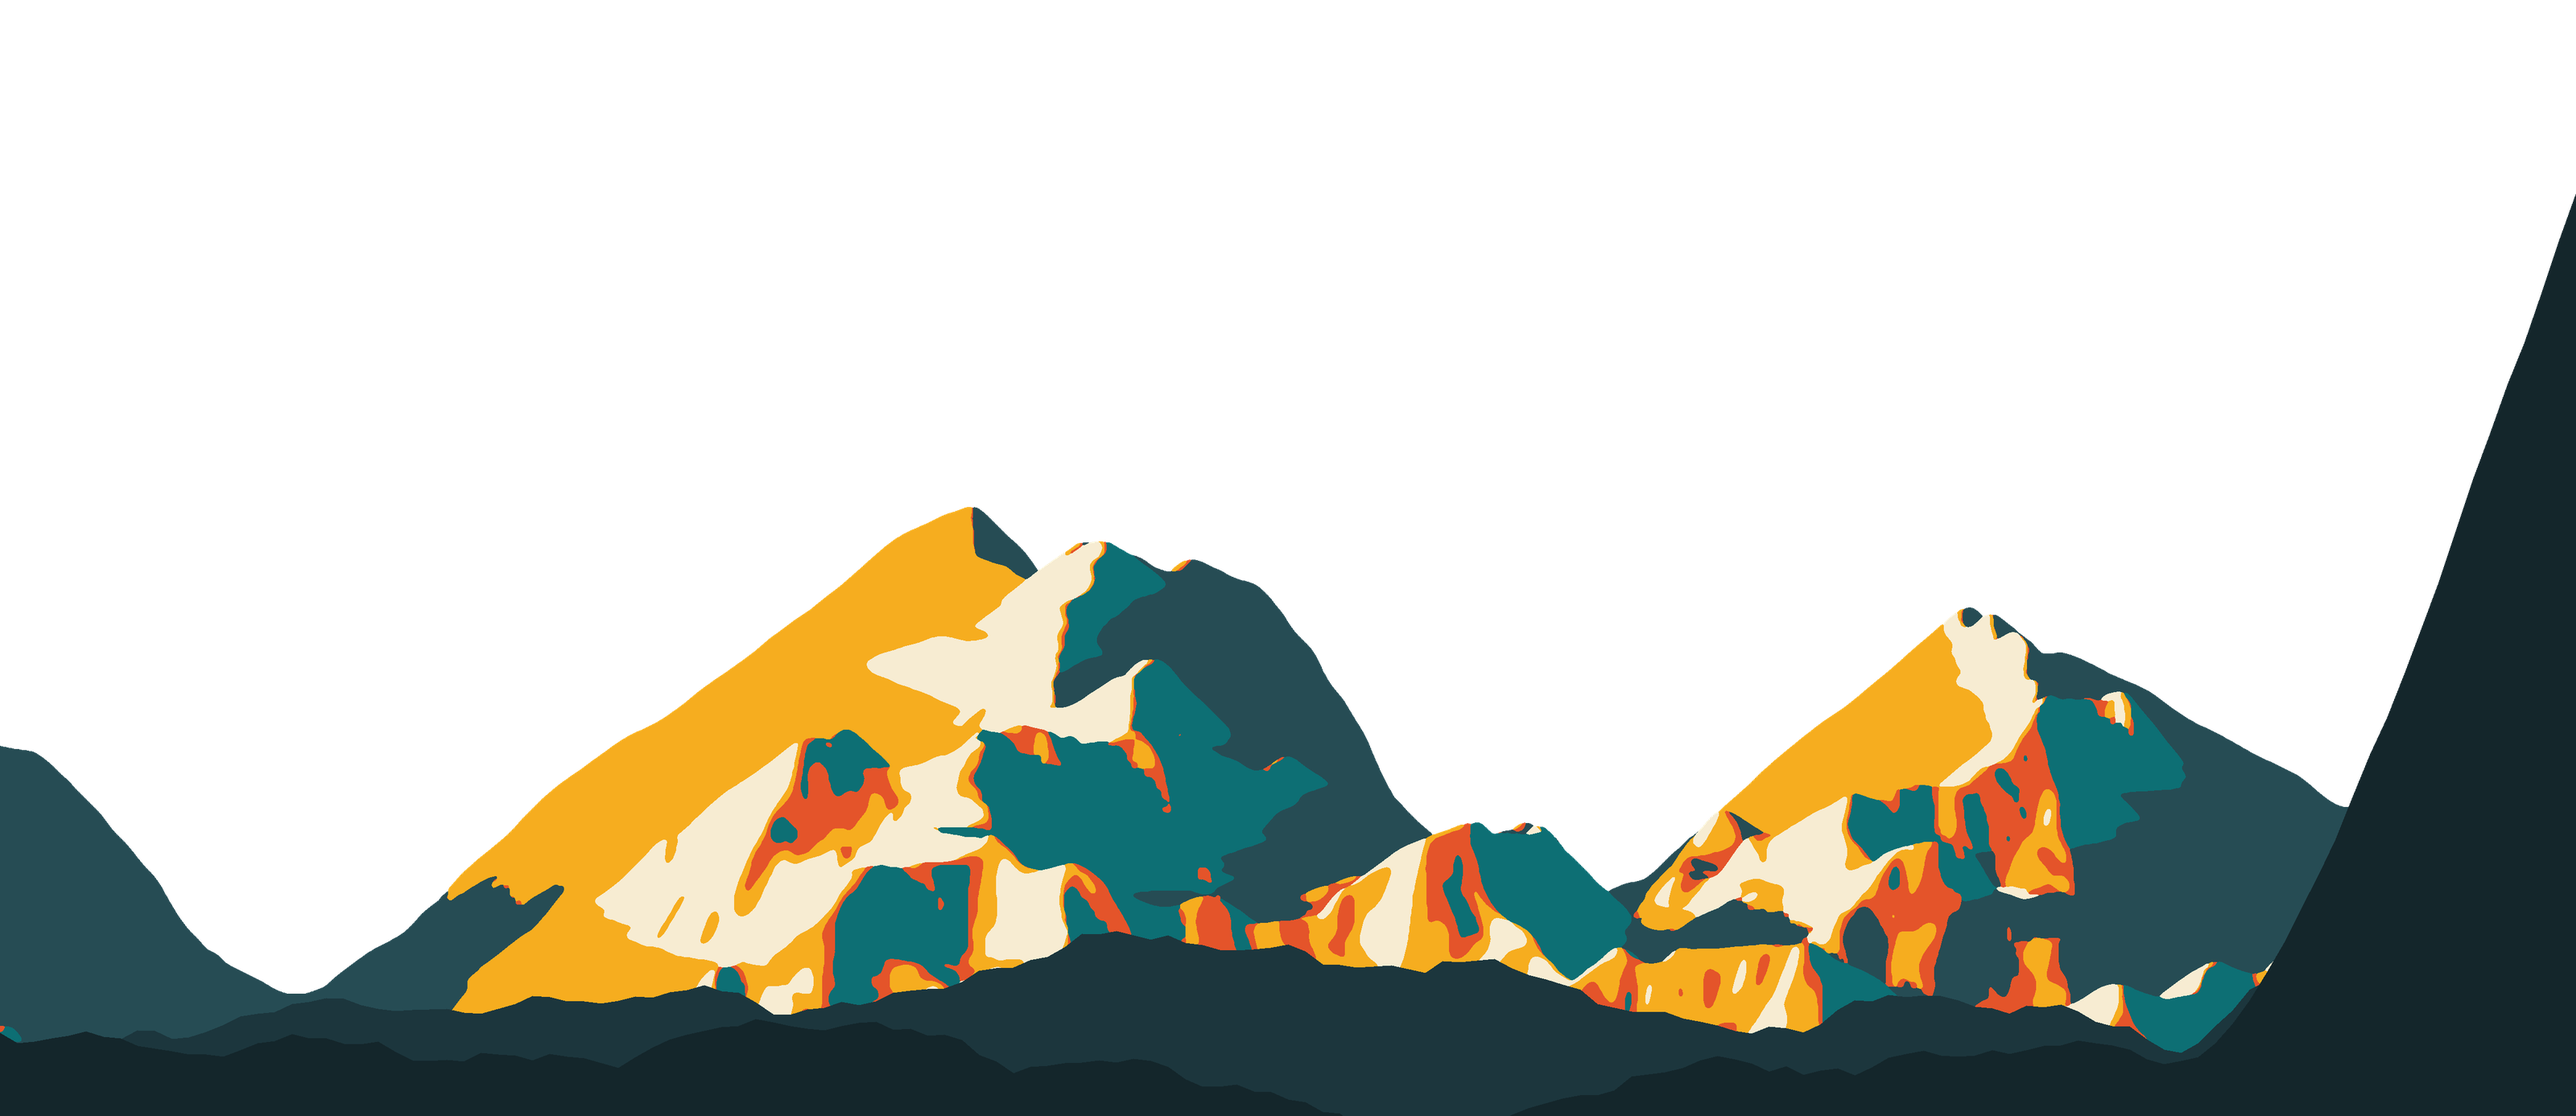
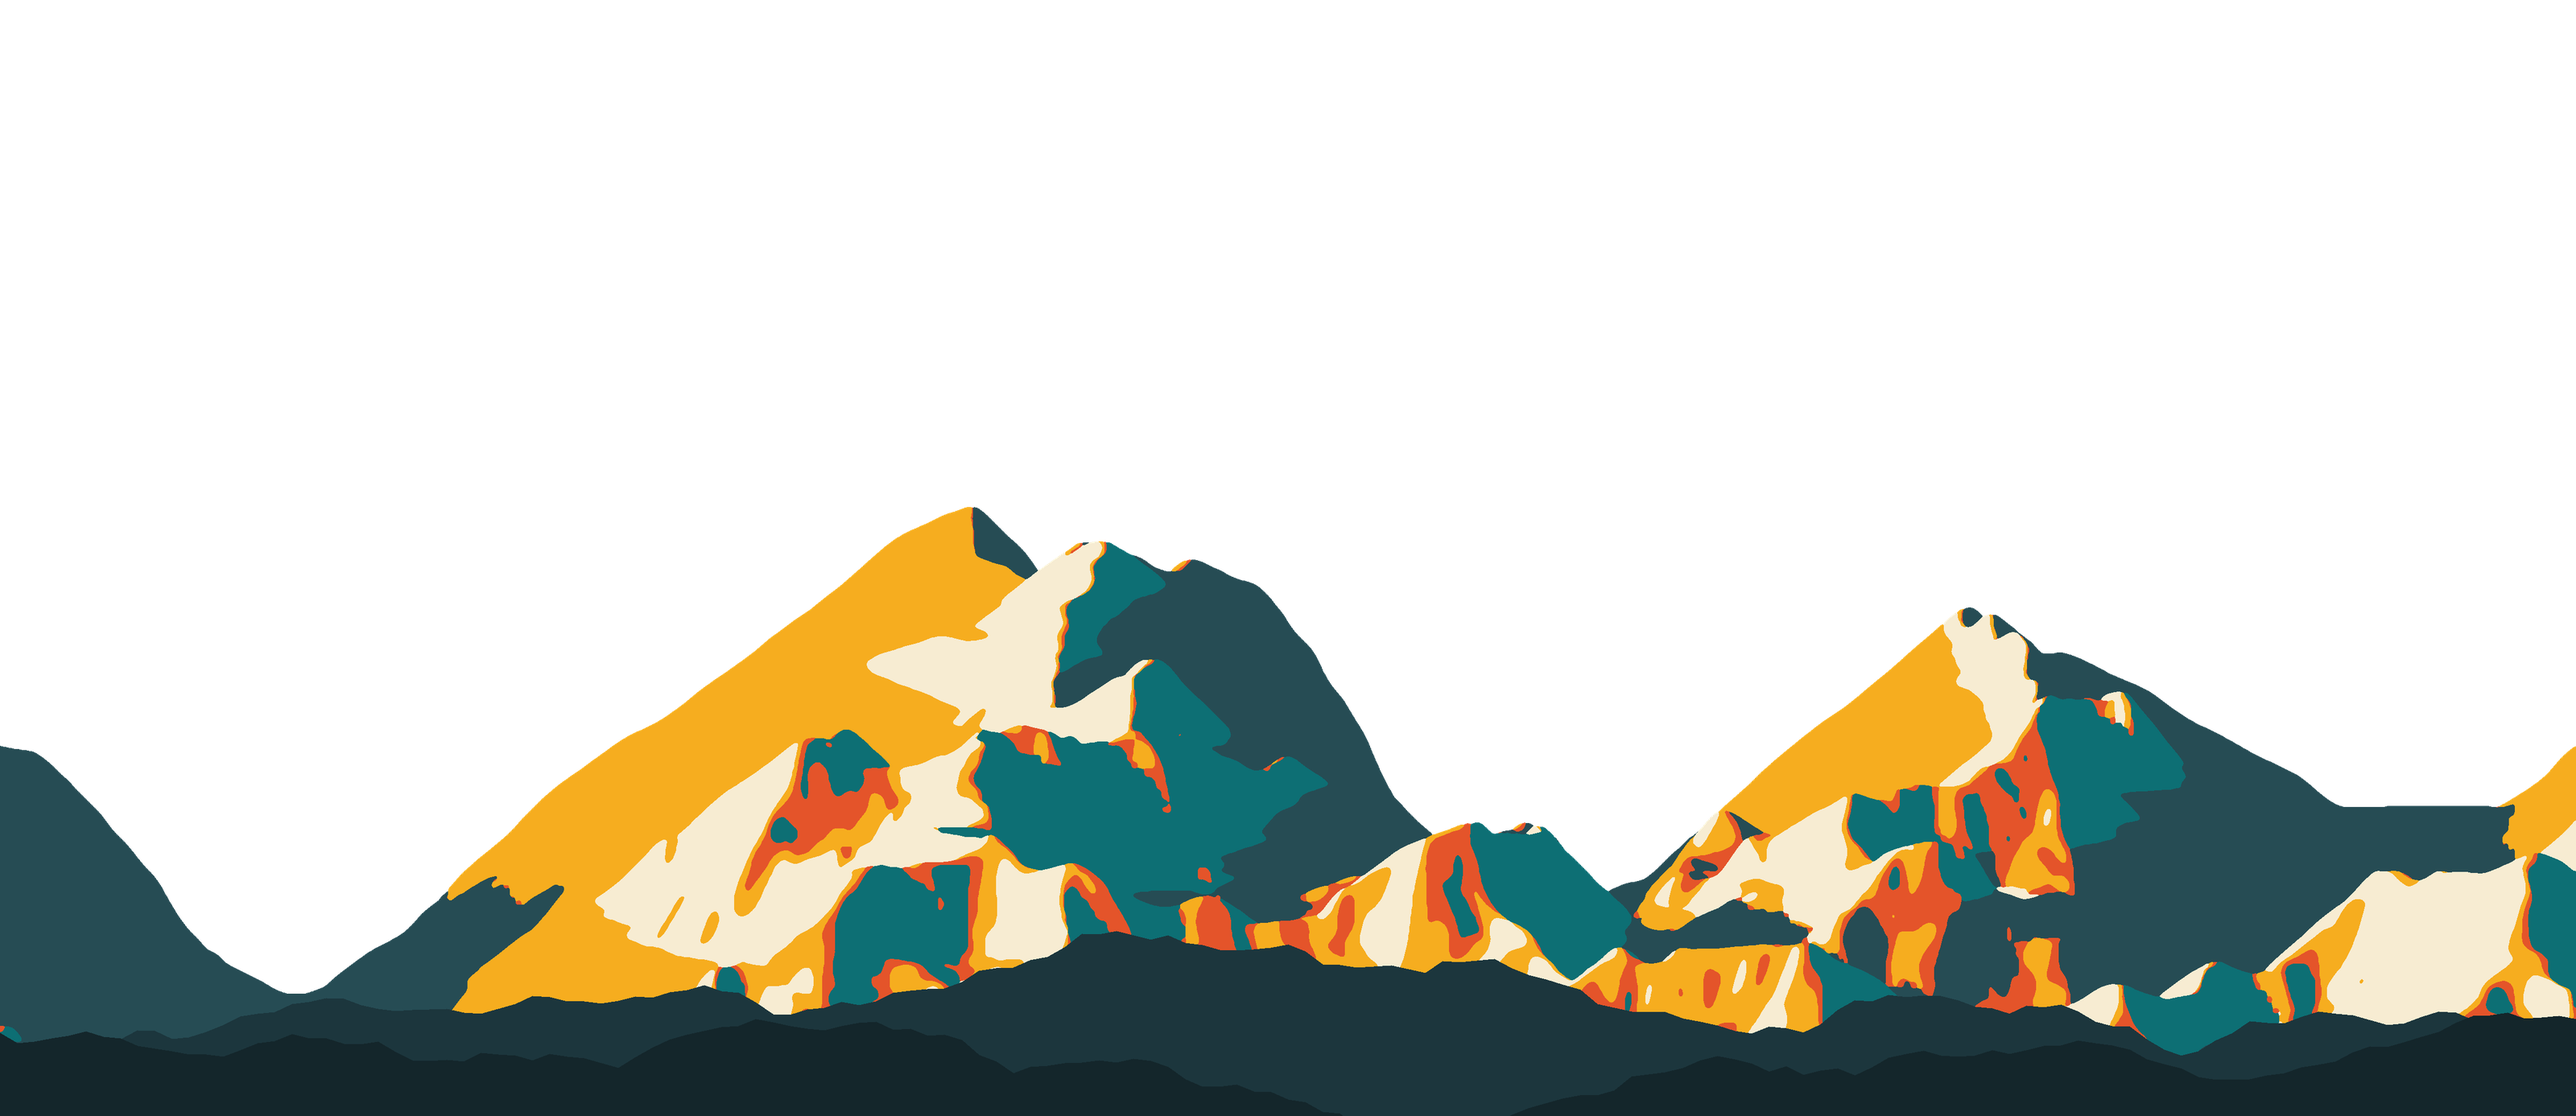
Portada: sol a la izquierda, entero, y montañas fundidas con el mapa

Changed region(s): [[0.8438, 0.186, 1.0, 0.9301]]

diff --git a/web/css/portada.css b/web/css/portada.css
@@ -32,10 +32,13 @@ img { max-width: 100%; }
 /* Cartel: tres capas, sol, letra y crestas. Las medidas siguen el ancho de la columna.
    Si la ventana es alta, crece y las letras se separan de las crestas. */
 .cartel { position: relative; flex: none; height: clamp(50cqw, calc(100svh - var(--barra-h) - 360px), 72cqw); }
-.cartel-sol { position: absolute; right: 3cqw; bottom: 9cqw; width: 25cqw; height: 25cqw; border-radius: 50%; background: var(--ambar); animation: cartel-sube var(--dur-lenta) var(--ease-entrada); }
+.cartel-sol { position: absolute; left: 5cqw; bottom: 17cqw; width: 14cqw; height: 14cqw; border-radius: 50%; background: var(--ambar); animation: cartel-sube var(--dur-lenta) var(--ease-entrada); }
 .cartel-logo { position: absolute; left: 10cqw; top: 2.4cqw; width: 78cqw; max-width: none; height: auto; animation: cartel-sube var(--dur-lenta) var(--ease-entrada); }
-/* Las crestas acaban en un primer plano de la tinta del fondo: no hay borde ni transparencias. */
-.cartel-crestas { position: absolute; left: 0; bottom: 0; width: 104cqw; max-width: none; height: auto; }
+/* Abajo acaban en un primer plano de la tinta del fondo. A la derecha se funden con el mapa. */
+.cartel-crestas {
+  position: absolute; left: 0; bottom: 0; width: 114cqw; max-width: none; height: auto;
+  -webkit-mask-image: linear-gradient(to left, transparent, #000 30%); mask-image: linear-gradient(to left, transparent, #000 30%);
+}
 @keyframes cartel-sube { from { opacity: 0; transform: translateY(12px); } }
 
 /* Banda oscura: ocupa lo que deja el cartel. */
@@ -120,6 +123,10 @@ img { max-width: 100%; }
 .soltar-nota { margin-top: 6px !important; font-size: 1.1rem; font-weight: 600; }
 .sin-js { padding: 24px; text-align: center; }
 
+/* Ventana baja: las letras tapan el hueco del sol. Mejor sin sol que con un sol cortado. */
+@media (min-width: 900px) and (max-height: 850px) { .cartel-sol { left: 2cqw; bottom: 18cqw; width: 10cqw; height: 10cqw; } }
+@media (min-width: 900px) and (max-height: 770px) { .cartel-sol { display: none; } }
+
 /* Ventana baja: tarjetas más bajas, para dejar sitio al mapa. */
 @media (min-width: 900px) and (max-height: 760px) {
   .heroe-tarjetas { height: 92px; }
@@ -133,7 +140,7 @@ img { max-width: 100%; }
   .boton-tinta { margin-left: auto; }
   .portada { display: block; height: auto; min-height: 0; }
   .cartel { height: 52cqw; overflow: hidden; }
-  .cartel-crestas { width: 100%; }
+  .cartel-crestas { width: 100%; -webkit-mask-image: none; mask-image: none; }
   .banda { padding: 22px var(--gut) 26px; }
   .heroe { min-height: 680px; padding-inline: var(--gut); }
   .heroe-capa { -webkit-mask-image: linear-gradient(to bottom, transparent, #000 70px); mask-image: linear-gradient(to bottom, transparent, #000 70px); }
@@ -147,8 +154,8 @@ img { max-width: 100%; }
 @media (max-width: 620px) {
   .cartel { height: 88vw; }
   .cartel-logo { top: 4vw; left: 7vw; width: 86vw; }
-  .cartel-sol { top: 34vw; bottom: auto; right: -4vw; width: 40vw; height: 40vw; }
-  .cartel-crestas { left: -48%; width: 190%; }
+  .cartel-sol { top: 45vw; bottom: auto; left: 5vw; width: 20vw; height: 20vw; }
+  .cartel-crestas { left: -2%; width: 150%; }
   .datos { grid-template-columns: 1fr 1fr; }
   .datos div:nth-child(3) { border-left: 0; }
   .datos div:nth-child(n+3) { border-top: 3px solid var(--tinta); }
